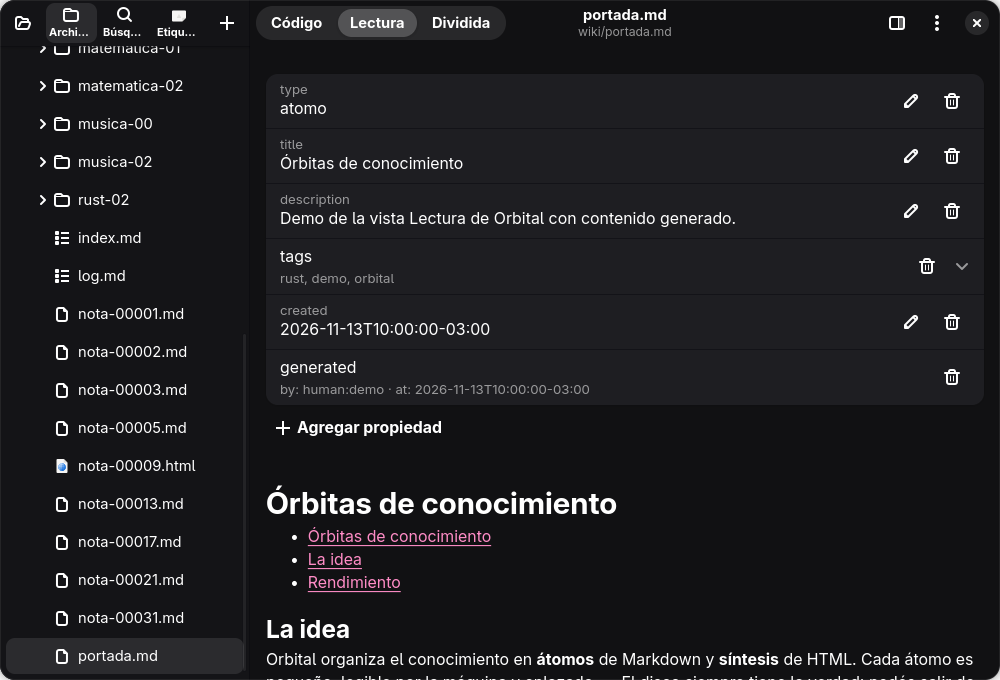
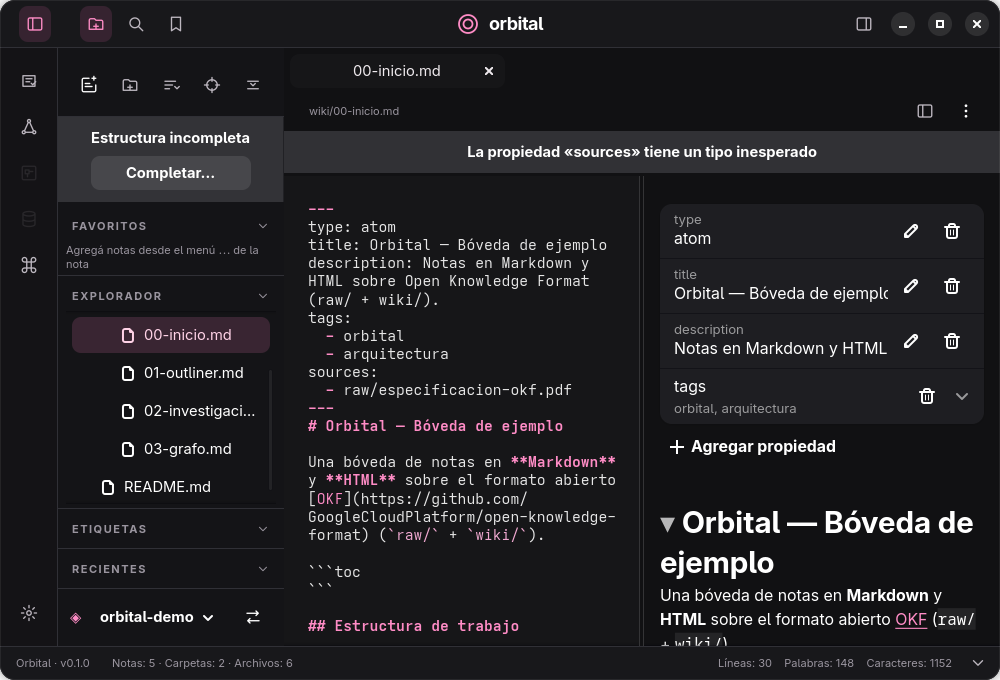
docs: mejora estética y redacción del README con GIF e imágenes actualizadas

diff --git a/README.md b/README.md
@@ -1,89 +1,84 @@
 <div align="center">
 
+<img src="data/icons/hicolor/scalable/apps/io.github.caracelp.Orbital.svg" alt="Orbital" width="96">
+
 # Orbital
 
 **Notas en Markdown y HTML para Linux, hechas en Rust con GTK4 y libadwaita.**
 
 El disco siempre tiene la verdad: tus notas son archivos `.md` y `.html` normales en una bóveda
 [Open Knowledge Format](https://github.com/GoogleCloudPlatform/open-knowledge-format) `raw/` + `wiki/`,
-compatible con otros editores. Ninguna función escribe HTML en tus notas.
+compatible con otros editores. Ninguna función escribe HTML dentro de tus notas Markdown.
 
 [![CI](https://github.com/caracelp/orbital/actions/workflows/ci.yml/badge.svg)](https://github.com/caracelp/orbital/actions/workflows/ci.yml)
 [![Licencia: GPL-3.0-or-later](https://img.shields.io/badge/licencia-GPL--3.0--or--later-ff8cc6)](LICENSE)
+![Rust](https://img.shields.io/badge/Rust-GTK4%20%2B%20libadwaita-ff8cc6)
+![Linux](https://img.shields.io/badge/Linux-Flatpak%20%7C%20Wayland-1e1e24)
 
-<img src="docs/img/lectura.png" alt="Orbital: vista Lectura de una nota con propiedades, árbol de archivos y tabla de contenidos generada" width="820">
+<br>
 
-[Características](#características) · [Atajos](#atajos) · [Compilar](#compilar-y-ejecutar) · [Verificación](#verificación) · [Contribuir](CONTRIBUTING.md)
+<img src="docs/img/tour.gif" alt="Recorrido por Orbital: vista Dividida, outliner plegable en Código y Lectura, propiedades y barra de navegación" width="840">
+
+<br>
+
+[Vistas](#vistas-y-outliner) · [Características](#características) · [Atajos](#atajos) · [Instalación](#flatpak) · [Compilar](#compilar-y-ejecutar) · [Contribuir](CONTRIBUTING.md)
 
 </div>
 
+---
+
+## Vistas y outliner
+
+<table>
+  <tr>
+    <td width="50%" align="center">
+      <img src="docs/img/lectura.png" alt="Vista Dividida con tabla de contenidos, propiedades YAML y enlaces">
+      <br>
+      <sub><b>Vista Dividida y propiedades</b> — Código a la izquierda, Lectura formateada y propiedades YAML a la derecha.</sub>
+    </td>
+    <td width="50%" align="center">
+      <img src="docs/img/outliner.png" alt="Outliner plegable sincronizado entre Código y Lectura">
+      <br>
+      <sub><b>Outliner plegable</b> — Plegado sincronizado entre Código y Lectura con estado persistente en <code>.orbital/plegado.yaml</code>.</sub>
+    </td>
+  </tr>
+</table>
+
+---
+
 ## Características
 
-**Interfaz**
+### Interfaz nativa de GNOME
 
-- Riel de navegación, barras laterales plegables (Ctrl+[ y Ctrl+]) y barra inferior con totales de la
-  bóveda y contadores de la nota y de la selección.
-- Pestañas de notas que recuerdan cursor, desplazamiento y vista; el grafo global también abre en una
-  pestaña.
-- Explorador con secciones plegables (archivos, etiquetas, recientes) y desplegable de bóvedas
-  recientes.
-- Barra derecha con tres modos: propiedades y etiquetas de la nota, contexto (retroenlaces y enlaces
-  entrantes) y grafo local de la nota.
+- **Estética oscura rosa y negra** sobre GTK4 y libadwaita, con riel de navegación, pestañas que recuerdan cursor, vista y desplazamiento, y barra de estado con totales de la bóveda y de la selección.
+- **Explorador y listas**: árbol de archivos, **Favoritos**, **Guardados** (colecciones personalizadas en `.orbital/listas.yaml`), etiquetas anidadas, recientes y selector de bóvedas recientes.
+- **Barra derecha** con cuatro modos: propiedades y etiquetas de la nota, contexto (retroenlaces y enlaces entrantes), **grafo local por saltos** (1 · 2 · 3) y notas relacionadas.
+- **Paleta de comandos** (`Ctrl+Mayús+P`) y **selector rápido** (`Ctrl+P`).
 
-**Núcleo**
+### Editor y outliner
 
-- Bóveda `raw/` (fuentes inmutables) + `wiki/` (trabajo) según OKF v0.2; una carpeta cualquiera se
-  abre con **Abrir** sin modificarse.
-- Notas `.md` (átomos) y `.html` (síntesis) de primera clase: wikilinks, etiquetas, retroenlaces,
-  propiedades y búsqueda funcionan igual en las dos.
-- Transclusiones `![[nota]]` y `![[nota#sección]]` vivas, plantillas con variables, nota diaria,
-  archivado y papelera recuperable con deshacer.
-- Retroenlaces en tiempo real en el panel lateral.
-- Renombrar y mover actualiza los enlaces que resuelven a la nota, conservando el estilo de cada uno.
+- **Tres vistas sincronizadas**: **Código** (`Ctrl+1`), **Lectura** (`Ctrl+2`) y **Dividida** (`Ctrl+3`).
+- **Outliner plegable**: plegado de encabezados e ítems anidados en Código y Lectura con un único estado, atajos `Ctrl+Arriba` / `Ctrl+Abajo`, y **Enfocar** (`Alt+Derecha` / `Alt+Izquierda`) con miga de pan interactiva arriba del editor.
+- **Edición de listas y multi-cursor**: `Enter` continúa el bloque, `Tab`/`Mayús+Tab` y `Alt+Arriba/Abajo` mueven subárboles enteros; multi-cursor con `Alt+clic`, `Alt+arrastre` y `Ctrl+Alt+Arriba/Abajo`.
+- **Autocompletado y notas al pie**: wikilinks, bloques `^id`, etiquetas y estructuras, búsqueda y reemplazo en la nota, y notas al pie con tooltip en Lectura.
+- **Ramas libres y notas en tres partes**: edición por bloques delimitados estilo Branch Writing / Gingko y estructura en 3 partes (propiedades, cuerpo, conexiones).
 
-**Editor**
+### Visualización y conocimiento
 
-- Tres vistas de la misma nota: **Código** (Ctrl+1), **Lectura** (Ctrl+2) y **Dividida** (Ctrl+3).
-- **Multi-cursor** en Código: Alt+clic, Alt+arrastre y columnas con Ctrl+Alt+Arriba/Abajo; Esc
-  vuelve a un cursor.
-- **Outliner de listas**: Enter continúa la lista, Tab/Shift+Tab con subítems, mover ítems entre
-  hermanos.
-- Autocompletado de wikilinks, etiquetas y estructuras; búsqueda y reemplazo en la nota.
-- **Notas al pie** con tooltip en Lectura y comando «Renumerar notas al pie».
+- **Grafo global de enlaces** a pantalla completa con simulación física Barnes-Hut en segundo plano, controles Pausar/Reanudar, Recalcular y anclaje al arrastrar.
+- **Brújula de vecindario**: entrantes, salientes, mutuos y hermanas de segundo salto desde el riel izquierdo.
+- **Canvas visual (`.canvas`)** con tarjetas de texto y de nota, y **Mapa mental** generado desde los encabezados y listas de la nota abierta.
+- **OnStage**: presentá cualquier nota como diapositivas en vivo en una ventana separada, con portada, índice y modo *calm*.
 
-**Búsqueda y organización**
+### Búsqueda, archivos y privacidad
 
-- Búsqueda en toda la bóveda (Ctrl+Mayús+F): `"frase"`, `-excluir`, `OR`, `tag:`, `path:`, `file:`,
-  `line:`, `section:` y propiedades `[clave:valor]`; resultados con fragmento y clic que abre la nota
-  en la línea.
-- Etiquetas anidadas con panel de árbol y cantidades, renombrado en toda la bóveda con deshacer.
-- Búsquedas guardadas en `.orbital/busquedas.yaml`.
-- Selector rápido (Ctrl+P) y paleta de comandos (Ctrl+Mayús+P).
+- **Búsqueda en toda la bóveda** (`Ctrl+Mayús+F`) con operadores `"frase"`, `-excluir`, `OR`, `tag:`, `path:`, `file:`, `line:`, `section:` y `[clave:valor]`.
+- **Notas `.md` y `.html` de primera clase**, transclusiones vivas `![[nota]]` / `![[nota#sección]]`, plantillas con variables, nota diaria y papelera recuperable con deshacer.
+- **Historial de versiones** automático al guardar (hasta 20 versiones por nota con diff y restaurar en `.orbital/historial/`).
+- **PDFs e importación offline**: visor de PDF embebido con citas `#page=N&sel=i,f`, exportación a HTML autónomo y PDF, e importación offline de PDF/DOCX/HTML de `raw/` a Markdown.
+- **100 % local**: todo corre sin conexión; la red solo interviene si pedís metadatos `og:` para tarjetas ` ```cardlink `, siempre con sesión efímera.
 
-**Contenido generado** (el disco siempre conserva el fuente)
-
-- Marcadores `[%clave]` que muestran valores por sección (inline → YAML → «faltante»).
-- Índices por etiqueta (` ```indice `) y tabla de contenidos (` ```toc `).
-- **Tarjetas de URL**: ` ```cardlink ` con metadatos og:; se pega una URL y Lectura la muestra como
-  tarjeta clicable.
-
-**Conocimiento**
-
-- **Grafo de enlaces** de la bóveda a pantalla completa, con arrastre de nodos y vecinos resaltados.
-- **OnStage**: la nota como diapositivas en una ventana separada, con portada, índice y modo calm;
-  sigue la edición en vivo mientras presentás.
-- **Historial de versiones**: snapshot automático al guardar, 20 versiones por nota con diff y
-  restaurar, en `.orbital/historial/`.
-- **Exportar la nota abierta** a HTML autónomo y PDF.
-- **Importar a Markdown**: un PDF, DOCX o HTML de `raw/` se convierte offline a una nota nueva
-  en `wiki/`, vinculada al fuente en `sources`.
-- **Anotar PDFs**: visor embebido sin red, selecciones que se vuelven enlaces
-  `#page=N&sel=i,f` en tus notas y resaltados bidireccionales; el PDF nunca se modifica.
-- **Archivos externos por URL**: asocia un archivo de `raw/` a una URL y ábrelo en un webview
-  embebido con sesión de red efímera.
-
-Todo funciona sin conexión; la red solo entra donde lo pedís explícitamente (metadatos de tarjetas
-de URL), con sesión efímera.
+---
 
 ## Atajos
 
@@ -93,16 +88,31 @@ de URL), con sesión efímera.
 | Selector rápido / paleta de comandos | `Ctrl+P` / `Ctrl+Mayús+P` |
 | Búsqueda global / buscar en la nota / reemplazar | `Ctrl+Mayús+F` / `Ctrl+F` / `Ctrl+H` |
 | Vistas Código / Lectura / Dividida | `Ctrl+1` / `Ctrl+2` / `Ctrl+3` |
+| Plegar / desplegar elemento del outliner | `Ctrl+Arriba` / `Ctrl+Abajo` |
+| Enfocar elemento / subir un nivel en la miga | `Alt+Derecha` / `Alt+Izquierda` |
 | Barra izquierda / derecha | `Ctrl+[` / `Ctrl+]` |
-| Retroenlaces | `Ctrl+Mayús+B` |
-| Exportar HTML | `Ctrl+Mayús+E` |
-| Nota diaria | `Ctrl+Alt+D` |
-| Pegar imagen | `Ctrl+Mayús+V` |
+| Retroenlaces / Nota diaria | `Ctrl+Mayús+B` / `Ctrl+Alt+D` |
+| Exportar HTML / Pegar imagen | `Ctrl+Mayús+E` / `Ctrl+Mayús+V` |
 | Renombrar / enviar a papelera | `F2` / `Supr` |
 | Multi-cursor (Código) | `Alt+clic`, `Ctrl+Alt+Arriba/Abajo` |
-| Preferencias / lista de atajos | `Ctrl+,` / `Ctrl+?` |
+| Preferencias / lista completa de atajos | `Ctrl+,` / `Ctrl+?` |
 
-La lista completa está en la app, en **Ayuda → Atajos** (`Ctrl+?`).
+---
+
+## Flatpak
+
+```sh
+cd ~/Proyectos/orbital                    # se corre desde la carpeta del repo
+build-aux/flatpak/construir.sh            # genera build-aux/flatpak/build/orbital.flatpak
+flatpak install --user build-aux/flatpak/build/orbital.flatpak
+flatpak run io.github.caracelp.Orbital    # o desde el menú de aplicaciones
+```
+
+Usa el runtime de GNOME 51 y la extensión de Rust de Flathub (el script indica cómo instalarlos sin
+`sudo`). El manifiesto para `flatpak-builder` está en
+[`build-aux/flatpak/io.github.caracelp.Orbital.json`](build-aux/flatpak/io.github.caracelp.Orbital.json).
+
+---
 
 ## Compilar y ejecutar
 
@@ -127,60 +137,20 @@ orbital --medir-escritura <carpeta> <nota>                             # latenci
 orbital --salir-al-mostrar <carpeta>                                   # medir el arranque
 ```
 
-## Verificación
+---
 
-Cada función lleva pruebas: núcleo en `crates/orbital-vault`, interfaz con GTK en proceso y
-regresión AT-SPI con los scripts `tools/verificar-NNN-us*.sh` (cada uno levanta una instancia y una
-bóveda temporales propias; nunca se toca la bóveda real del usuario ni se envían teclas sintéticas).
+## Verificación y formato de bóveda
 
-Antes de cerrar cualquier cambio, el gate:
+Antes de cerrar cualquier cambio se corre el gate completo:
 
 ```sh
 cargo fmt
 cargo clippy --all-targets -- -D warnings
 cargo test
 cargo deny check
+tools/pruebas-gtk.sh
 ```
 
-La CI de GitHub corre el mismo gate en un contenedor de Arch (por WebKitGTK 6.0).
-
-## Formato de la bóveda
-
-El contrato completo está en [docs/formato-boveda.md](docs/formato-boveda.md): estructura, propiedades,
-etiquetas, enlaces, marcadores y bloques generados, y todo lo que vive en `.orbital/` (configuración,
-búsquedas guardadas, URL asociadas, historial y papelera recuperable). Es la fuente de verdad: si el
-código y el documento no coinciden, el error está en el código.
-
-## Flatpak
-
-```sh
-cd ~/Proyectos/orbital                    # el script se corre desde la carpeta del repo
-build-aux/flatpak/construir.sh            # deja build-aux/flatpak/build/orbital.flatpak
-flatpak install --user build-aux/flatpak/build/orbital.flatpak
-flatpak run io.github.caracelp.Orbital    # o desde el menú de aplicaciones
-```
-
-Usa el runtime de GNOME 51 y la extensión de Rust de Flathub (el script dice cómo instalarlos, sin
-`sudo`). El manifiesto para `flatpak-builder` está en
-[`build-aux/flatpak/io.github.caracelp.Orbital.json`](build-aux/flatpak/io.github.caracelp.Orbital.json).
-
-## Specs y desarrollo
-
-El desarrollo sigue un flujo Spec Kit: cada especificación vive en `specs/NNN-nombre/` con
-`spec.md → plan.md → research.md → tasks.md`, más `quickstart.md` (resultados medidos) y
-`traspaso.md` (estado exacto y lecciones aprendidas). Las terminadas están fusionadas en `main`;
-la cola de trabajo vigente está en [specs/cola-autonoma.md](specs/cola-autonoma.md) y lo
-pendiente de cada bloque, en la [hoja de ruta](docs/hoja-de-ruta.md).
-
-Los principios del proyecto (rendimiento primero, la bóveda es del usuario, nativa de GNOME, local y
-privada) están en [.specify/memory/constitution.md](.specify/memory/constitution.md).
-
-## Contribuir
-
-Leé [CONTRIBUTING.md](CONTRIBUTING.md): entorno, gate de verificación, convenciones y flujo de specs.
-Errores y pedidos de función van por [issues](https://github.com/caracelp/orbital/issues) con las
-plantillas.
-
-## Licencia
-
-GPL-3.0-or-later. Ver [LICENSE](LICENSE).
+- El contrato completo del disco (OKF v0.2, propiedades, bloques y `.orbital/`) vive en [docs/formato-boveda.md](docs/formato-boveda.md).
+- El desarrollo sigue el flujo **Spec Kit** (`specs/NNN-nombre/`) con principios en [.specify/memory/constitution.md](.specify/memory/constitution.md) y estado en [docs/hoja-de-ruta.md](docs/hoja-de-ruta.md).
+- Para contribuir, leé [CONTRIBUTING.md](CONTRIBUTING.md). Licencia **GPL-3.0-or-later** ([LICENSE](LICENSE)).
